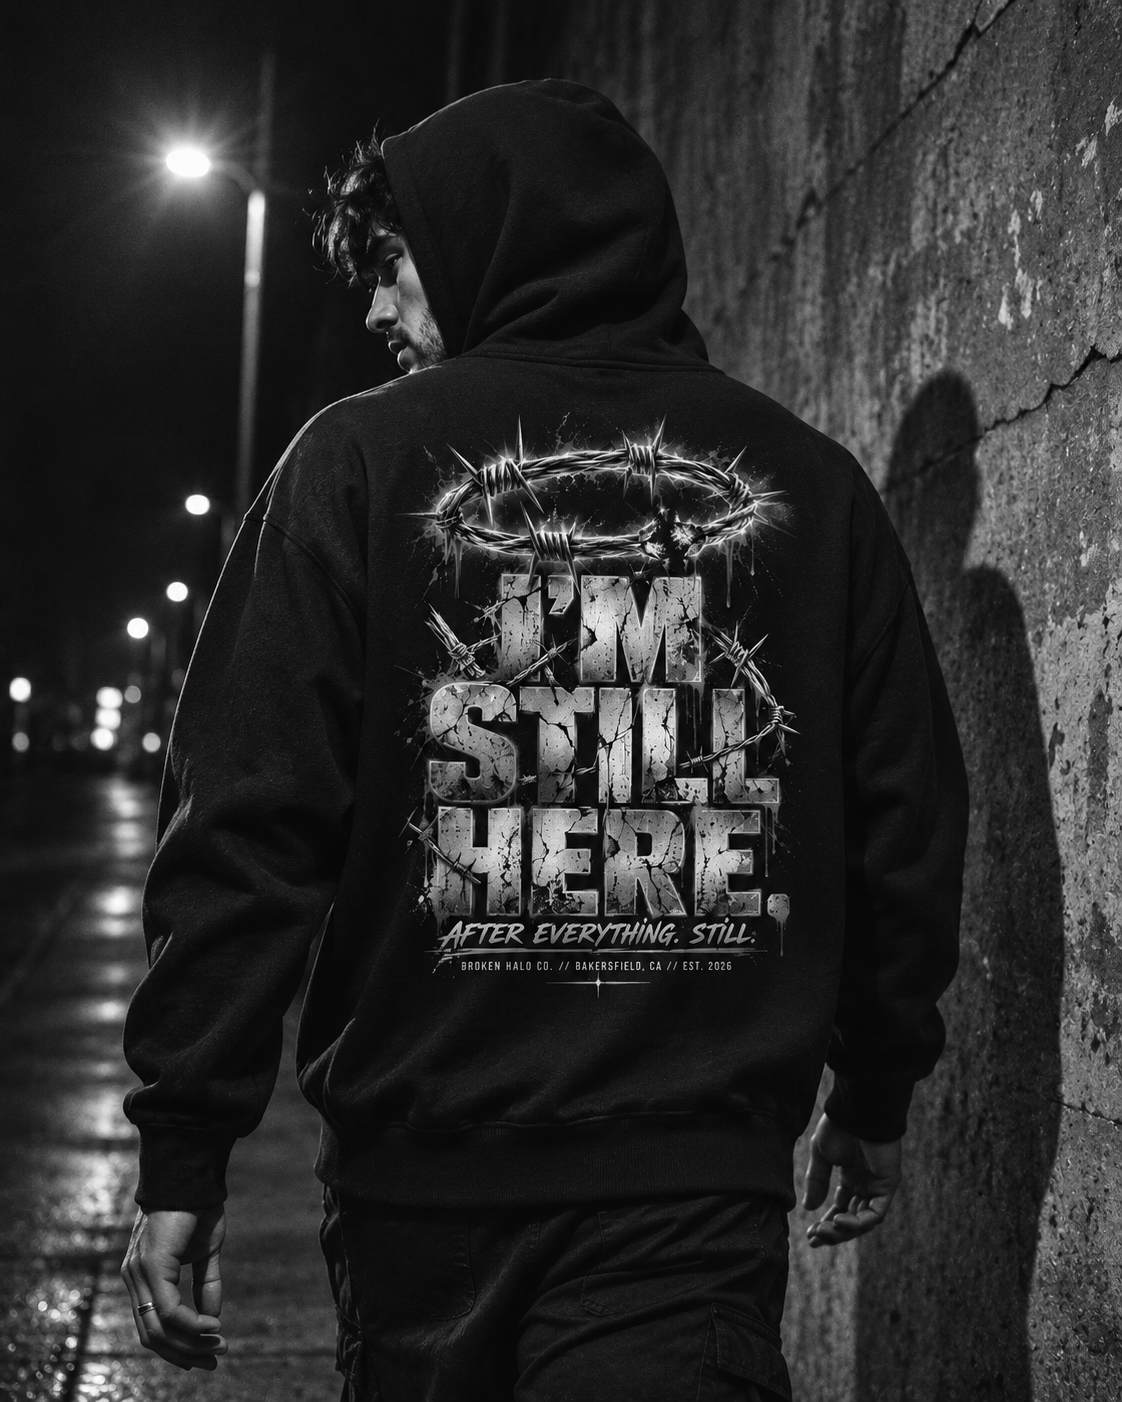
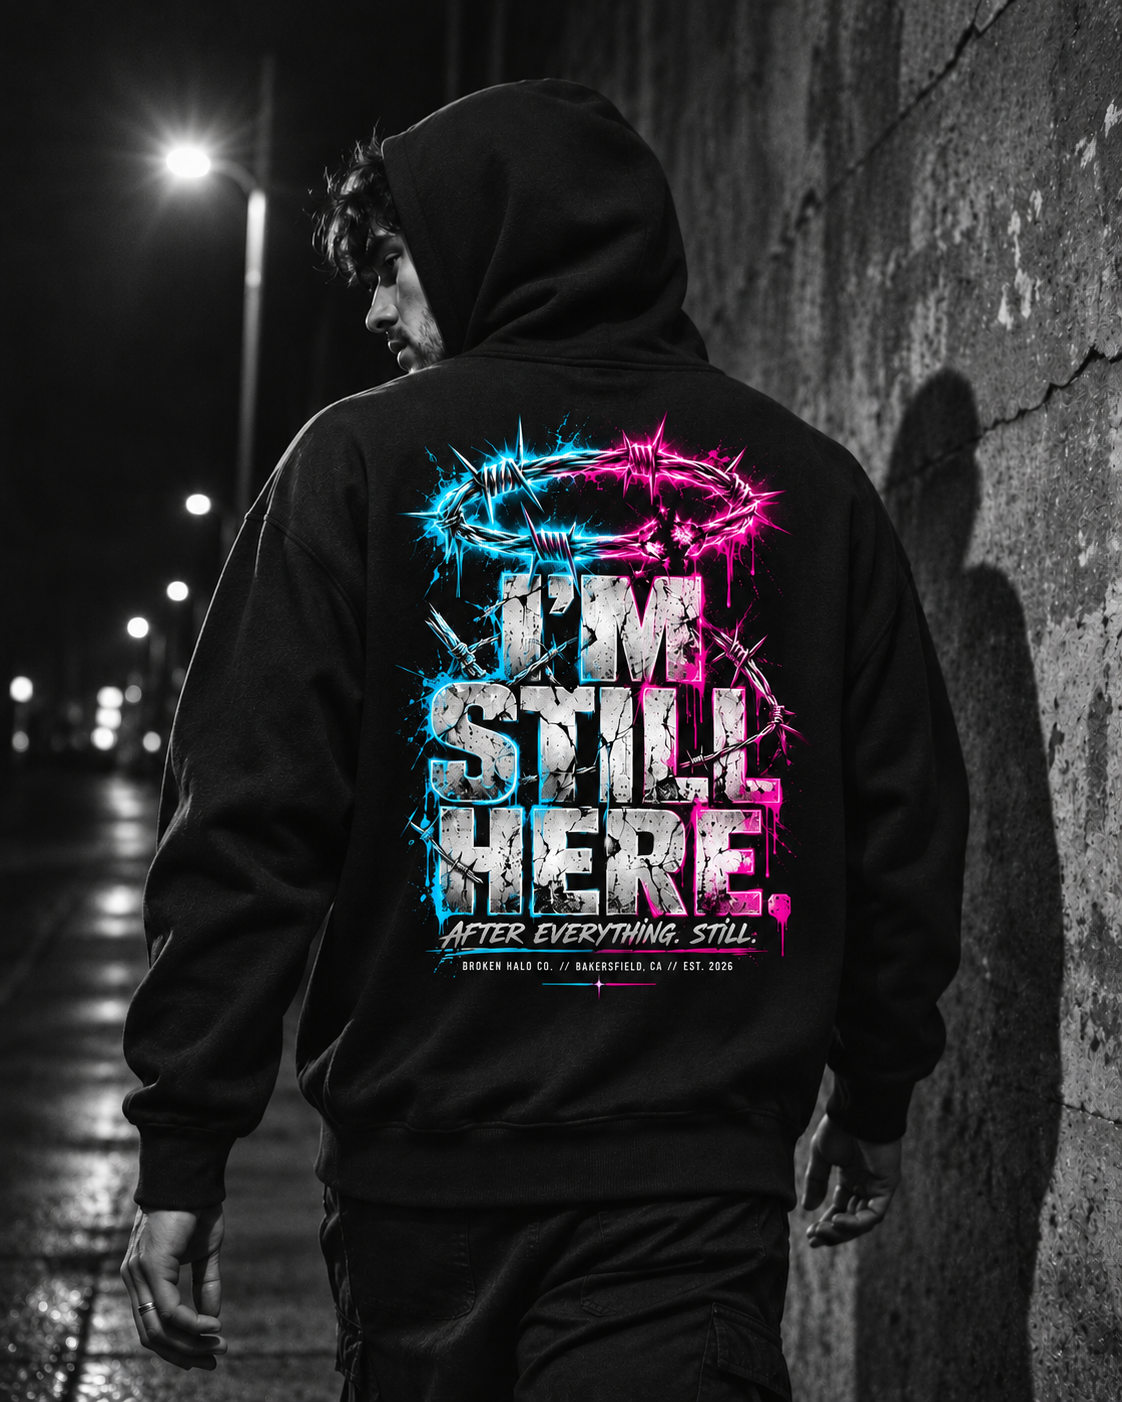
Light up Still Here artwork in cyan and pink

diff --git a/index.html b/index.html
@@ -172,7 +172,7 @@
         <div class="route-copy"><span class="editorial-kicker">01 / THE STORY</span><h2>READ</h2><p>The memoir. The reality.<br>The story beneath the message.</p><a href="#book">EXPLORE THE BOOK →</a></div>
       </article>
       <article class="route-card">
-        <a class="route-visual route-wear photo-frame" href="#hoodies" aria-label="Explore Broken Halo apparel"><img src="assets/still-here-night.png" alt="Monochrome night styling of the current Still Here hoodie; see product for artwork colors" width="1122" height="1402" loading="lazy"></a>
+        <a class="route-visual route-wear photo-frame" href="#hoodies" aria-label="Explore Broken Halo apparel"><img src="assets/still-here-night.png" alt="Still Here hoodie with its cyan and hot-pink print against a monochrome nighttime street — AI styling image" width="1122" height="1402" loading="lazy"></a>
         <div class="route-copy"><span class="editorial-kicker">02 / THE EXPRESSION</span><h2>WEAR</h2><p>Dark streetwear for people<br>still here and still building.</p><a href="#hoodies">EXPLORE THE APPAREL →</a></div>
       </article>
       <article class="route-card">

diff --git a/editorial.css b/editorial.css
@@ -44,7 +44,7 @@ a:focus-visible,button:focus-visible{outline:3px solid var(--accent);outline-off
 .photo-frame{position:relative;isolation:isolate;padding:13px;border:1px solid #565656;background:#151616;box-shadow:inset 0 0 0 5px #080909}
 .photo-frame:after{content:'';position:absolute;inset:7px;border:1px solid #a6a6a644;pointer-events:none;z-index:2}
 .photo-frame:before{content:'';position:absolute;top:7px;left:7px;width:30px;height:3px;background:#ff2bbd;z-index:3}
-.route-wear img{transform:scale(1.18);object-position:50% 48%;filter:grayscale(1)}
+.route-wear img{transform:scale(1.18);object-position:50% 48%;filter:none}
 .route-tool img{transform:scale(1.05);object-fit:cover}
 .route-book.photo-frame img{padding:19px 20px 32px}
 @media(max-width:600px){.photo-frame{padding:10px}}
